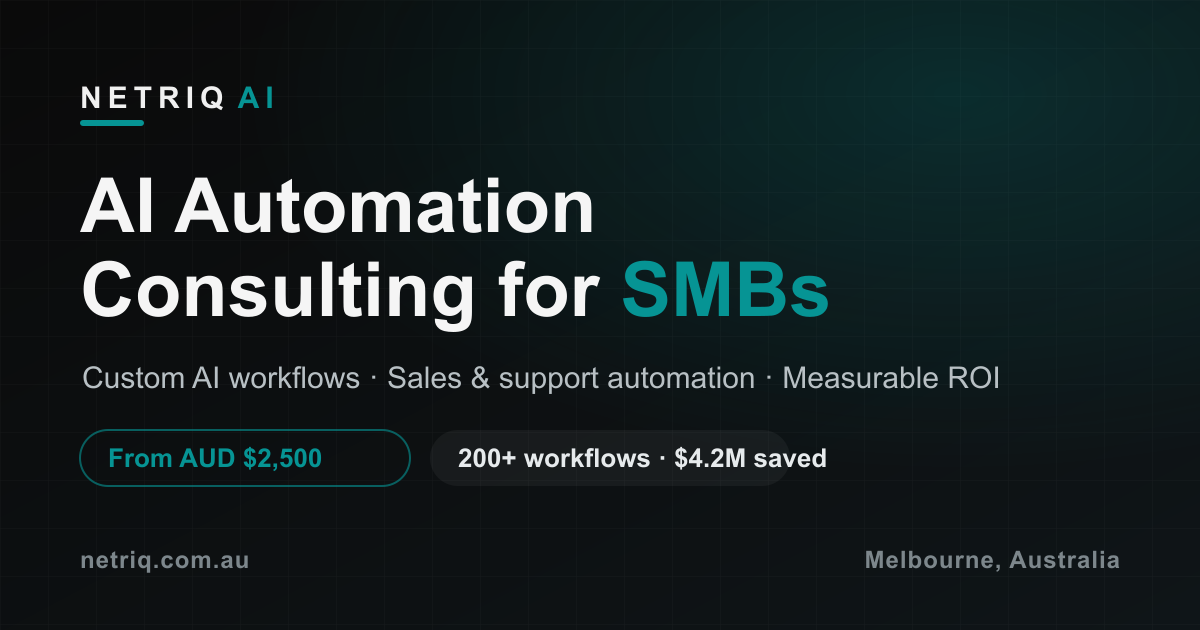
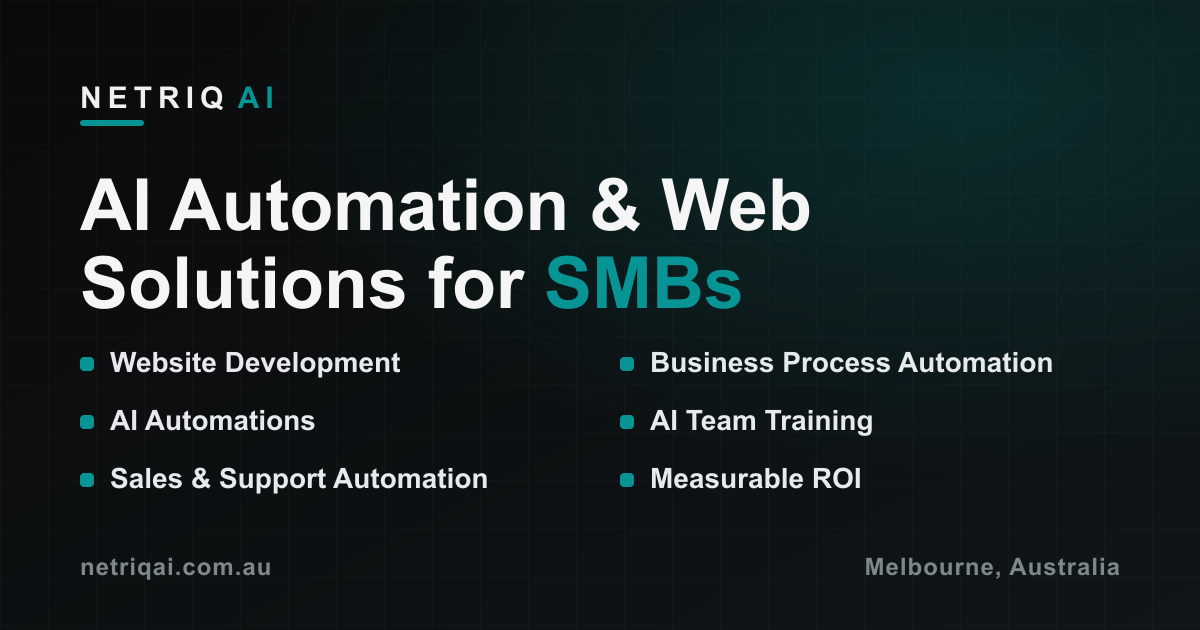
seo: refocus OG image on services, drop pricing/stats
Replace the share card so it highlights service pillars (Website Development,
AI Automations, Sales & Support Automation, Business Process Automation, AI Team
Training, Measurable ROI) instead of pricing and quantified claims ("From AUD
$2,500", "200+ workflows", "$4.2M saved"). Also corrects the footer domain to
netriqai.com.au. Adds scripts/gen-og.js as the reproducible source.

diff --git a/scripts/gen-og.js b/scripts/gen-og.js
@@ -1,0 +1,70 @@
+// Generates public/og-image.png — the social/AI share card.
+// Focused on service pillars; intentionally no pricing or quantified stats.
+const sharp = require('sharp');
+const path = require('path');
+
+const W = 1200, H = 630;
+const teal = '#069494';
+
+// Service pillars, laid out in two columns (no width math needed — left-aligned).
+const colA = ['Website Development', 'AI Automations', 'Sales & Support Automation'];
+const colB = ['Business Process Automation', 'AI Team Training', 'Measurable ROI'];
+
+function serviceRows(items, x) {
+  const startY = 372;
+  const gap = 58;
+  return items
+    .map((label, i) => {
+      const y = startY + i * gap;
+      const safe = label.replace(/&/g, '&amp;');
+      return `
+    <rect x="${x}" y="${y - 15}" width="14" height="14" rx="4" fill="${teal}"/>
+    <text x="${x + 30}" y="${y}" font-family="Inter, Arial, sans-serif" font-size="28" font-weight="600" fill="#e6eaec">${safe}</text>`;
+    })
+    .join('');
+}
+
+const svg = `<svg width="${W}" height="${H}" viewBox="0 0 ${W} ${H}" xmlns="http://www.w3.org/2000/svg">
+  <defs>
+    <linearGradient id="bg" x1="0" y1="0" x2="1" y2="1">
+      <stop offset="0%" stop-color="#0a0a0a"/>
+      <stop offset="100%" stop-color="#0f1518"/>
+    </linearGradient>
+    <radialGradient id="glow" cx="80%" cy="15%" r="60%">
+      <stop offset="0%" stop-color="${teal}" stop-opacity="0.22"/>
+      <stop offset="100%" stop-color="${teal}" stop-opacity="0"/>
+    </radialGradient>
+    <pattern id="grid" width="48" height="48" patternUnits="userSpaceOnUse">
+      <path d="M48 0H0V48" fill="none" stroke="#ffffff" stroke-opacity="0.04" stroke-width="1"/>
+    </pattern>
+  </defs>
+
+  <rect width="${W}" height="${H}" fill="url(#bg)"/>
+  <rect width="${W}" height="${H}" fill="url(#grid)"/>
+  <rect width="${W}" height="${H}" fill="url(#glow)"/>
+
+  <!-- accent bar -->
+  <rect x="80" y="120" width="64" height="6" rx="3" fill="${teal}"/>
+
+  <!-- wordmark -->
+  <text x="80" y="108" font-family="Inter, Arial, sans-serif" font-size="30" font-weight="800" letter-spacing="6" fill="#f0f0f0">NETRIQ <tspan fill="${teal}">AI</tspan></text>
+
+  <!-- headline -->
+  <text x="80" y="230" font-family="Inter, Arial, sans-serif" font-size="72" font-weight="800" fill="#f5f5f5">AI Automation &amp; Web</text>
+  <text x="80" y="308" font-family="Inter, Arial, sans-serif" font-size="72" font-weight="800" fill="#f5f5f5">Solutions for <tspan fill="${teal}">SMBs</tspan></text>
+
+  <!-- service pillars -->
+  ${serviceRows(colA, 80)}
+  ${serviceRows(colB, 620)}
+
+  <!-- footer -->
+  <text x="80" y="575" font-family="Inter, Arial, sans-serif" font-size="24" font-weight="600" letter-spacing="1" fill="#7d878c">netriqai.com.au</text>
+  <text x="${W - 80}" y="575" text-anchor="end" font-family="Inter, Arial, sans-serif" font-size="24" font-weight="600" letter-spacing="1" fill="#7d878c">Melbourne, Australia</text>
+</svg>`;
+
+const out = path.join(__dirname, '..', 'public', 'og-image.png');
+sharp(Buffer.from(svg))
+  .png()
+  .toFile(out)
+  .then(info => console.log('Wrote', out, info.width + 'x' + info.height, info.size + ' bytes'))
+  .catch(err => { console.error(err); process.exit(1); });
